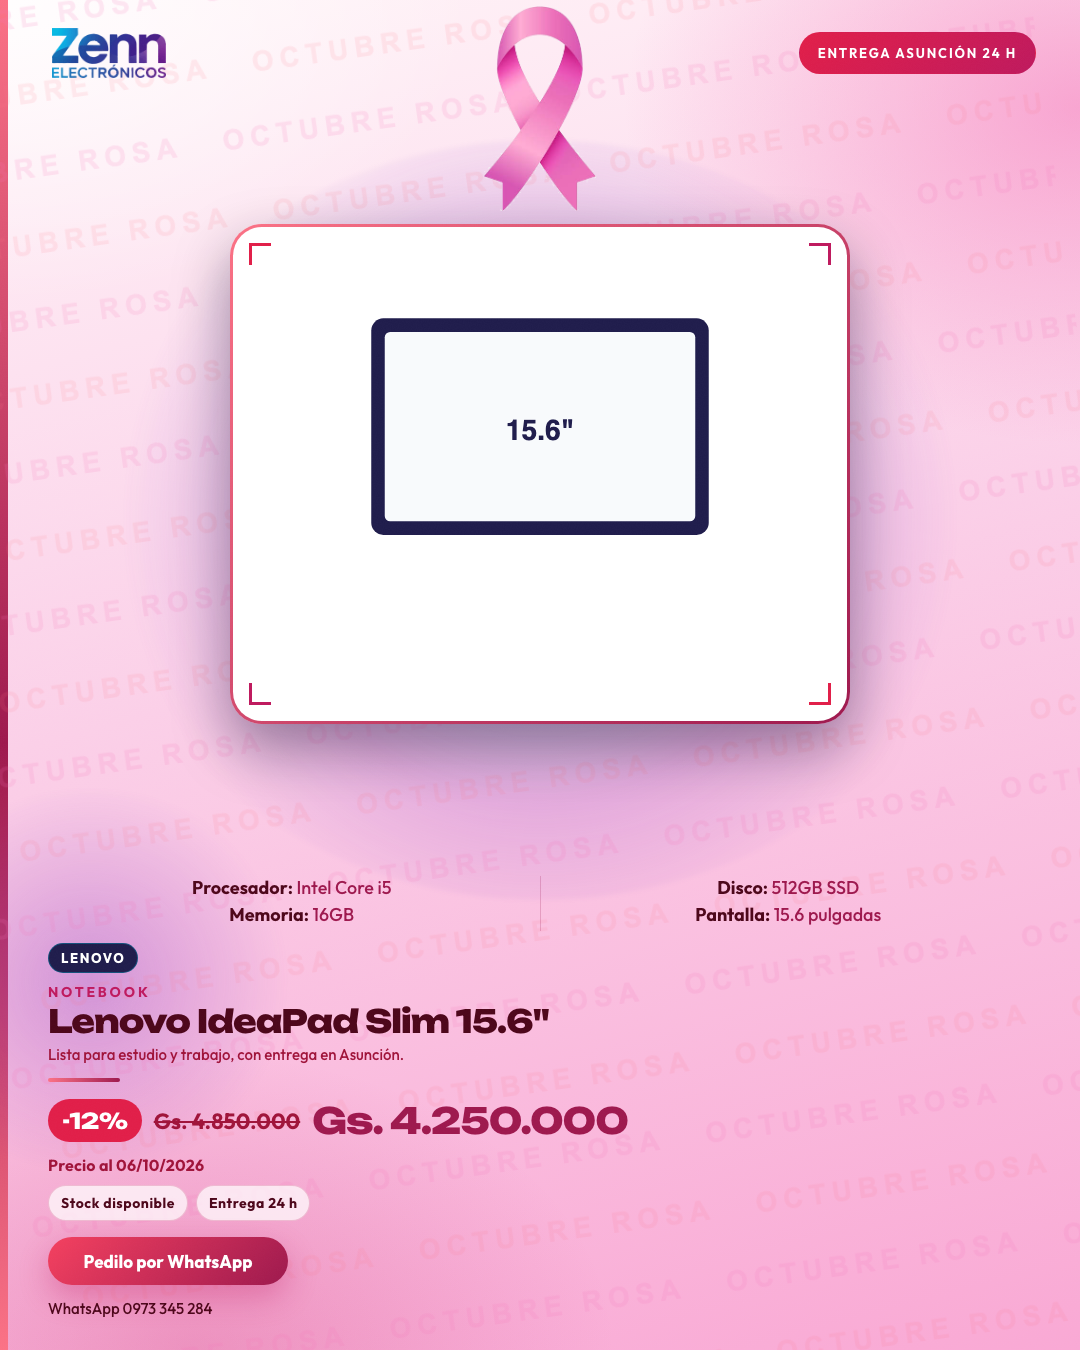
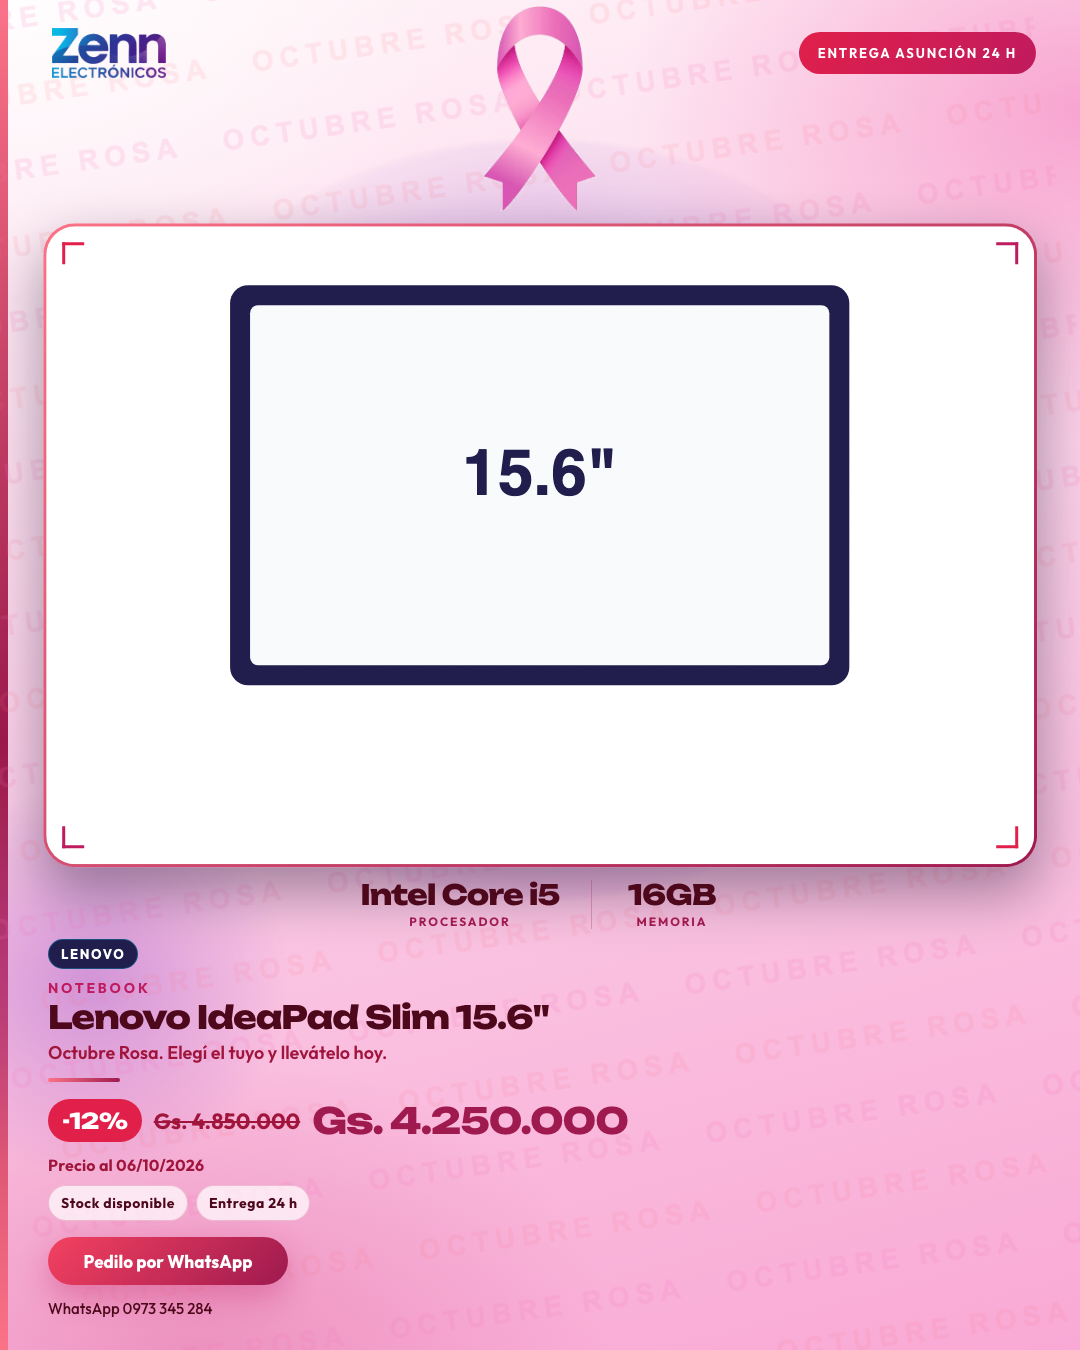
mejoras

diff --git a/backend/services/creativeHtml.js b/backend/services/creativeHtml.js
@@ -43,49 +43,66 @@ const SPEC_FIRST = [
   'conex', 'bluetooth', 'wifi', 'teclado', 'peso'
 ];
 
-function filledSpecs(specs) {
-  const rows = (Array.isArray(specs) ? specs : []).filter((spec) => spec && String(spec.text || '').trim());
-  return rows
-    .map((spec, index) => {
-      const blob = `${spec.label || ''} ${spec.name || ''}`.toLowerCase();
-      const rank = SPEC_FIRST.findIndex((key) => blob.includes(key));
-      return { spec, index, rank: rank === -1 ? 100 : rank };
-    })
-    .sort((a, b) => a.rank - b.rank || a.index - b.index)
-    .map((row) => row.spec);
+const SPEC_NOISE = /^(marca|brand|color|colour|c[oó]digo|sku|ean|garant[ií]a|origen|procedencia|categor[ií]a|subcategor[ií]a|tipo|descripci[oó]n|certificaci[oó]n|certificaciones|estado|condici[oó]n|compatibilidad|voltaje|alimentaci[oó]n|peso|dimensiones)$/i;
+const SPEC_SOFT = /^(modelo|model|referencia|serie|versi[oó]n)$/i;
+const SPEC_DULL = /^(s[ií]|no|n\/?a|est[aá]ndar|standard|gen[eé]rico|generico|negro|blanco|gris|plata|silver|gold|dorado|azul|rojo|verde|rosa|black|white|gray|grey)$/i;
+
+function specText(spec) {
+  return String(spec && spec.text || '').replace(/\s+/g, ' ').trim();
 }
 
-function specLayout(count, format) {
-  const band = format === 'story' ? 300 : format === 'square' ? 100 : 150;
-  let cols = count <= 2 ? 1 : 2;
-  if (count > 5 && Math.ceil(count / 2) * 34 > band) cols = 3;
-  const rows = Math.ceil(count / cols);
-  const lines = rows * 2 * 15 > band ? 1 : 2;
-  const lineH = band / Math.max(1, rows * lines);
-  const font = Math.max(11, Math.min(format === 'square' ? 14 : 18, Math.floor(lineH * 0.7)));
-  return { cols, lines, font };
+function specScore(spec, title) {
+  const label = String(spec.label || '').replace(/\s+/g, ' ').trim();
+  const name = String(spec.name || '').replace(/\s+/g, ' ').trim();
+  const text = specText(spec);
+  if (!text || text.length < 2) return -1;
+  if (SPEC_NOISE.test(label) || SPEC_NOISE.test(name) || SPEC_DULL.test(text)) return -1;
+  if (text.length > 42 && !/\d/.test(text)) return -1;
+  const titleNorm = String(title || '').toLowerCase();
+  if (titleNorm && text.length > 8 && titleNorm.includes(text.toLowerCase())) return -1;
+  const specific = /\d|\brtx\b|\bgtx\b|\bryzen\b|\bsnapdragon\b|\boled\b|\bips\b|\banc\b|\bdpi\b|\bssd\b|\bnvme\b|\b5g\b/i.test(text);
+  if (SPEC_SOFT.test(label) || SPEC_SOFT.test(name)) return specific ? 48 : -1;
+
+  const blob = `${label} ${name}`.toLowerCase();
+  const rank = SPEC_FIRST.findIndex((key) => blob.includes(key));
+  let score = rank === -1 ? 0 : 36 - rank;
+  if (/\d/.test(text)) score += 24;
+  if (specific) score += 28;
+  if (text.length <= 18) score += 8;
+  if (text.length > 32) score -= 10;
+  return score;
 }
 
-function fitSpecText(value) {
-  const text = String(value || '').replace(/\s+/g, ' ').trim();
-  if (text.length <= 34) return text;
-  return `${text.slice(0, 33).trim()}…`;
-}
-
-function specsHtml(specs, format) {
-  const cap = format === 'square' ? 3 : 4;
-  const items = filledSpecs(specs).slice(0, cap);
-  if (!items.length) return '';
-  const { cols, font } = specLayout(items.length, format);
-  const size = Math.ceil(items.length / cols);
-  const columns = [];
-  for (let i = 0; i < cols; i += 1) {
-    const slice = items.slice(i * size, (i + 1) * size);
-    if (slice.length) columns.push(slice);
+function chipValue(raw) {
+  const text = String(raw || '').replace(/\s+/g, ' ').trim();
+  const inch = text.match(/(\d{1,2}(?:[.,]\d)?)\s*(pulgadas|pulg|"|''|inch)/i);
+  if (inch) return `${inch[1].replace(',', '.')}"`;
+  const hz = text.match(/(\d{2,3})\s*hz/i);
+  if (hz && text.length < 24) return `${hz[1]}Hz`;
+  const mem = text.match(/(\d+)\s*(gb|tb)/i);
+  if (mem && text.length < 36) {
+    const kind = /ssd|nvme/i.test(text) ? ' SSD' : '';
+    return `${mem[1]}${mem[2].toUpperCase()}${kind}`;
   }
-  return `<div class="specs" style="--spec-size:${font}px">${columns.map((col) => `
-    <div class="col">${col.map((spec) => `<p class="sp"><span class="k">${esc(spec.label)}:</span> ${esc(fitSpecText(spec.text))}</p>`).join('')}</div>`).join('')}
-  </div>`;
+  if (text.length <= 26) return text;
+  return `${text.slice(0, 25).trim()}…`;
+}
+
+function highlightSpecs(specs, title, format) {
+  const cap = format === 'square' ? 1 : 2;
+  const ranked = (Array.isArray(specs) ? specs : [])
+    .map((spec) => ({ spec, score: specScore(spec, title) }))
+    .filter((row) => row.score >= 24)
+    .sort((a, b) => b.score - a.score || specText(a.spec).length - specText(b.spec).length);
+  if (!ranked.length) return [];
+  if (cap === 1 || !ranked[1] || ranked[1].score < 52) return [ranked[0].spec];
+  return ranked.slice(0, cap).map((row) => row.spec);
+}
+
+function specsHtml(specs, format, title) {
+  const items = highlightSpecs(specs, title, format);
+  if (!items.length) return '';
+  return `<div class="specs">${items.map((spec) => `<div class="chip"><div class="v">${esc(chipValue(spec.text))}</div><div class="k">${esc(spec.label || '')}</div></div>`).join('')}</div>`;
 }
 
 function galleryHtml(gallery) {
@@ -270,7 +287,7 @@ function renderCreativeHtml(payload, format = 'feed', assets = {}) {
   .plate {
     position: absolute; left: 50%; top: 50%;
     transform: translate(-50%, -50%);
-    width: 700px; height: 620px;
+    width: 90%; height: 94%;
     border-radius: 32px;
     background:
       linear-gradient(#fff, #fff) padding-box,
@@ -293,7 +310,7 @@ function renderCreativeHtml(payload, format = 'feed', assets = {}) {
   .c.br { right: 16px; bottom: 16px; border-right: 3px solid #00B5D8; border-bottom: 3px solid #00B5D8; }
   .photo {
     position: relative; z-index: 2;
-    width: 88%; height: 88%;
+    width: 94%; height: 94%;
     object-fit: contain; object-position: center;
     filter: none;
   }
@@ -340,26 +357,25 @@ function renderCreativeHtml(payload, format = 'feed', assets = {}) {
   }
   .specs {
     position: relative; z-index: 5; flex: 0 0 auto;
-    display: flex; align-items: center; justify-content: center;
-    padding: 6px 44px 2px;
+    display: flex; align-items: stretch; justify-content: center;
+    padding: 0 56px;
   }
-  .col {
-    flex: 1; min-width: 0;
+  .chip {
+    min-width: 160px; max-width: 420px;
     text-align: center;
-    padding: 0 18px;
+    padding: 0 32px;
   }
-  .col + .col { border-left: 1px solid rgba(255,255,255,.4); }
-  .sp {
-    margin: 0 0 4px;
-    font-size: var(--spec-size);
-    line-height: 1.3;
-    font-weight: 500;
-    color: rgba(226,232,240,.9);
-    white-space: nowrap;
-    overflow: hidden;
-    text-overflow: ellipsis;
+  .chip + .chip { border-left: 1px solid rgba(255,255,255,.35); }
+  .chip .v {
+    font-family: Unbounded, Outfit, sans-serif;
+    font-size: 28px; font-weight: 800; letter-spacing: -.03em; line-height: 1.05;
+    color: #fff;
   }
-  .sp .k { font-weight: 700; color: rgba(255,255,255,.96); }
+  .chip .k {
+    margin-top: 4px;
+    font-size: 12px; font-weight: 700; letter-spacing: .16em; text-transform: uppercase;
+    color: rgba(255,255,255,.72);
+  }
   footer {
     position: relative; flex: 0 0 auto; z-index: 6;
   }
@@ -397,9 +413,9 @@ function renderCreativeHtml(payload, format = 'feed', assets = {}) {
     font-size: 15px; line-height: 1.3; font-weight: 500; color: #D1D5DB;
     display: -webkit-box; -webkit-line-clamp: 1; -webkit-box-orient: vertical; overflow: hidden;
   }
-  .scene-cielo .sp, .scene-cielo .sp .k { color: #64748B; }
-  .scene-cielo .sp .k { color: #475569; }
-  .scene-cielo .col + .col { border-color: rgba(15,23,42,.2); }
+  .scene-cielo .chip .v { color: #0F172A; }
+  .scene-cielo .chip .k { color: #475569; }
+  .scene-cielo .chip + .chip { border-color: rgba(15,23,42,.2); }
   .scene-cielo .detail { color: #475569; }
   .scene-cielo .seal {
     color: #0F172A;
@@ -447,10 +463,16 @@ function renderCreativeHtml(payload, format = 'feed', assets = {}) {
     color: rgba(255,255,255,.78);
   }
   .scene-cielo .asof { color: #475569; }
-  .scene-rosa .sp, .scene-rosa .sp .k { color: #9D174D; }
-  .scene-rosa .sp .k { color: #4C0519; }
-  .scene-rosa .col + .col { border-color: rgba(157,23,77,.22); }
-  .scene-rosa .detail { color: #9F1239; }
+  .scene-rosa .chip .v { color: #4C0519; }
+  .scene-rosa .chip .k { color: #9D174D; }
+  .scene-rosa .chip + .chip { border-color: rgba(157,23,77,.28); }
+  .scene-rosa header { padding-bottom: 118px; }
+  .scene-rosa .detail {
+    color: #9F1239;
+    font-size: 18px;
+    font-weight: 600;
+    -webkit-line-clamp: 2;
+  }
   .scene-rosa .seal {
     color: #fff;
     background: linear-gradient(135deg, #E11D48, #BE185D);
@@ -533,17 +555,18 @@ function renderCreativeHtml(payload, format = 'feed', assets = {}) {
 
   .fmt-story .rosa-badge { width: 156px; top: 16px; }
   .fmt-feed .rosa-badge { width: 112px; top: 6px; }
-  .fmt-feed .hero { min-height: 460px; }
-  .fmt-feed .plate { width: 620px; height: 500px; }
+  .fmt-feed .plate { width: 92%; height: 96%; }
+  .fmt-feed.scene-rosa header { padding-bottom: 132px; }
   .fmt-feed .title { margin-top: 4px; font-size: 32px; }
   .fmt-feed .offer .now { font-size: 36px; }
   .fmt-feed .cta { height: 48px; padding: 0 22px; font-size: 17px; min-width: 240px; }
   .fmt-feed .row { margin-top: 10px; }
   .fmt-feed footer { padding: 10px 48px 32px; }
 
-  .fmt-story .hero { min-height: 620px; }
-  .fmt-story .plate { width: 680px; height: 600px; border-radius: 40px; }
-  .fmt-story .hero.has-thumbs .plate { width: 640px; height: 520px; top: 42%; }
+  .fmt-story .plate { width: 94%; height: 96%; border-radius: 40px; }
+  .fmt-story .hero.has-thumbs .plate { width: 88%; height: 78%; top: 42%; }
+  .fmt-story.scene-rosa header { padding-bottom: 196px; }
+  .fmt-story .chip .v { font-size: 34px; }
   .fmt-story .thumbs {
     left: 50%; top: auto; bottom: 10px;
     transform: translateX(-50%);
@@ -565,8 +588,8 @@ function renderCreativeHtml(payload, format = 'feed', assets = {}) {
   .fmt-story .cta { height: 52px; padding: 0 26px; font-size: 18px; min-width: 300px; }
   .fmt-story .wa { margin-top: 8px; }
 
-  .fmt-square .hero { min-height: 380px; }
-  .fmt-square .plate { width: 520px; height: 400px; border-radius: 30px; }
+  .fmt-square .plate { width: 88%; height: 94%; border-radius: 30px; }
+  .fmt-square .chip .v { font-size: 22px; }
   .fmt-square .thumb { width: 68px; height: 66px; border-radius: 16px; }
   .fmt-square .thumbs { left: 22px; }
   .fmt-square header { padding: 20px 36px 0 44px; }
@@ -606,7 +629,7 @@ function renderCreativeHtml(payload, format = 'feed', assets = {}) {
         ${img}
       </div>
     </div>
-    ${specsHtml(payload.specs || [], format)}
+    ${specsHtml(payload.specs || [], format, payload.title)}
     <footer>
       ${brand}
       <div class="kicker">${esc(payload.kicker)}</div>

diff --git a/backend/services/creativePayload.js b/backend/services/creativePayload.js
@@ -427,6 +427,7 @@ function instagramCaption(payload) {
 }
 
 const SCENES = ['orbita', 'neon', 'haz', 'malla', 'cielo', 'rosa'];
+const ROSA_COPY = 'Octubre Rosa. Elegí el tuyo y llevátelo hoy.';
 
 function pickScene(requested, family, theme, id) {
   const asked = String(requested || '').toLowerCase();
@@ -451,6 +452,7 @@ function buildCreativePayload(product, options = {}) {
   const images = firstImages(product);
   const imageIndex = Math.max(0, Math.min(Number(options.imageIndex) || 0, Math.max(0, images.length - 1)));
   const title = norm(options.title) || shortTitle(product);
+  const scene = pickScene(options.scene, family, theme, product._id);
 
   const payload = {
     id: String(product._id),
@@ -461,11 +463,12 @@ function buildCreativePayload(product, options = {}) {
     family,
     hasGpu,
     theme,
-    scene: pickScene(options.scene, family, theme, product._id),
+    scene,
     categoryLabel: hasGpu && family === 'notebook' ? 'GAMING' : (FAMILY_LABEL[family] || 'TECNOLOGÍA'),
     kicker: categoryKicker(product, family, hasGpu),
     title,
     specs: pageSpecs(product, options.specSchema),
+    sourceDetail: clipDetail(product.description),
     detail: options.detail !== undefined ? norm(options.detail).slice(0, 700) : clipDetail(product.description),
     price: formatGs(product.sellingPrice || product.price),
     listPrice: formatGs(product.price),
@@ -514,6 +517,7 @@ module.exports = {
   formatGs,
   hasDedicatedGpu,
   instagramCaption,
+  ROSA_COPY,
   wantsPrice,
   priceAsOfLabel,
   listSelectFields,

diff --git a/backend/services/captionComposer.js b/backend/services/captionComposer.js
@@ -159,8 +159,15 @@ function hooksFor(mood, voices) {
   return HOOKS[mood] || HOOKS.mix;
 }
 
+const ROSA_HOOKS = [
+  'Octubre Rosa en Zenn. Elegí el tuyo y llevátelo hoy.',
+  'Este octubre, el que te gusta está en la tienda.',
+  'Octubre Rosa. Stock de verdad y entrega en el día.'
+];
+
 function composeVariant(products, mood, variantIndex, voices) {
-  const hooks = hooksFor(mood, voices);
+  const rosa = products.length > 0 && products.every((product) => product.scene === 'rosa');
+  const hooks = rosa ? ROSA_HOOKS : hooksFor(mood, voices);
   const day = new Date().toISOString().slice(0, 10);
   const start = hash(`${day}|${products.map((p) => p.id).join(',')}|${mood}`) % hooks.length;
   const hook = hooks[(start + variantIndex) % hooks.length];
@@ -183,8 +190,11 @@ function composeCaptions(products, voices) {
     const variant = composeVariant(list, mood, index, voices);
     if (index === 2) {
       const tags = variant.hashtags.slice(0, 5);
+      const rosa = list.every((product) => product.scene === 'rosa');
       variant.caption = [
-        mood === 'promo' ? 'Promociones del día 🔥' : (list.length > 1 ? 'Nuevo ingreso en Zenn ✨' : variant.hook),
+        rosa
+          ? 'Octubre Rosa. Elegí el tuyo y llevátelo hoy.'
+          : (mood === 'promo' ? 'Promociones del día 🔥' : (list.length > 1 ? 'Nuevo ingreso en Zenn ✨' : variant.hook)),
         '',
         ...list.map(lineOf),
         '',

diff --git a/frontend/src/pages/admin/CreativeStudioPage.jsx b/frontend/src/pages/admin/CreativeStudioPage.jsx
@@ -108,6 +108,8 @@ async function errorFromAxios(err, fallback) {
   return data?.message || fallback;
 }
 
+const ROSA_COPY = 'Octubre Rosa. Elegí el tuyo y llevátelo hoy.';
+
 function asOfLabel() {
   return new Intl.DateTimeFormat('es-PY', {
     timeZone: 'America/Asuncion',
@@ -202,6 +204,21 @@ const CreativeStudioPage = () => {
   const [toolsOpen, setToolsOpen] = useState(false);
   const photoRef = useRef({ key: '', file: null });
   const ios = isIosDevice();
+
+  useEffect(() => {
+    if (!activeId) return;
+    const product = products.find((item) => item.id === activeId);
+    const original = String(product?.detail || '').trim();
+    setDetailDraft((current) => {
+      const text = String(current || '').trim();
+      if (scene === 'rosa') {
+        if (!text || text === original) return ROSA_COPY;
+        return current;
+      }
+      if (text === ROSA_COPY) return original;
+      return current;
+    });
+  }, [scene, activeId, products]);
 
   const openBrands = () => {
     setStudioMode('brands');

diff --git a/backend/controller/product/creativeStudioController.js b/backend/controller/product/creativeStudioController.js
@@ -12,6 +12,7 @@ const {
   loadSpecSchemaMap,
   schemaFor,
   instagramCaption,
+  ROSA_COPY,
   wantsPrice,
   priceAsOfLabel,
   FORMATS
@@ -350,6 +351,11 @@ function applyOverrides(payload, body = {}) {
     theme: body.theme === 'studio' || body.theme === 'gamer' ? body.theme : payload.theme
   };
   if (body.detail !== undefined) next.detail = String(body.detail).slice(0, 700);
+  if (next.scene === 'rosa') {
+    const incoming = String(next.detail || '').replace(/\s+/g, ' ').trim();
+    const source = String(payload.sourceDetail || '').replace(/\s+/g, ' ').trim();
+    if (!incoming || incoming === source) next.detail = ROSA_COPY;
+  }
   if (body.showPrice !== undefined) next.showPrice = wantsPrice(body.showPrice);
   next.priceAsOf = priceAsOfLabel();
   next.instagramCaption = instagramCaption(next);
